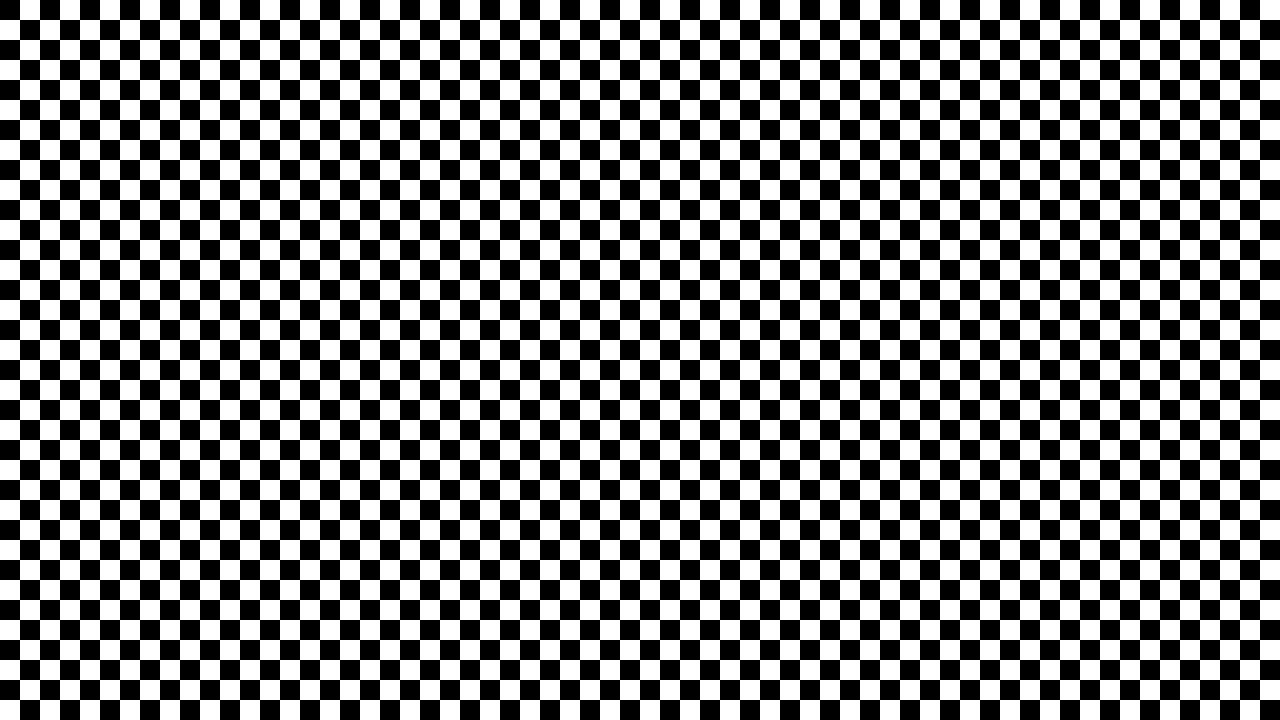
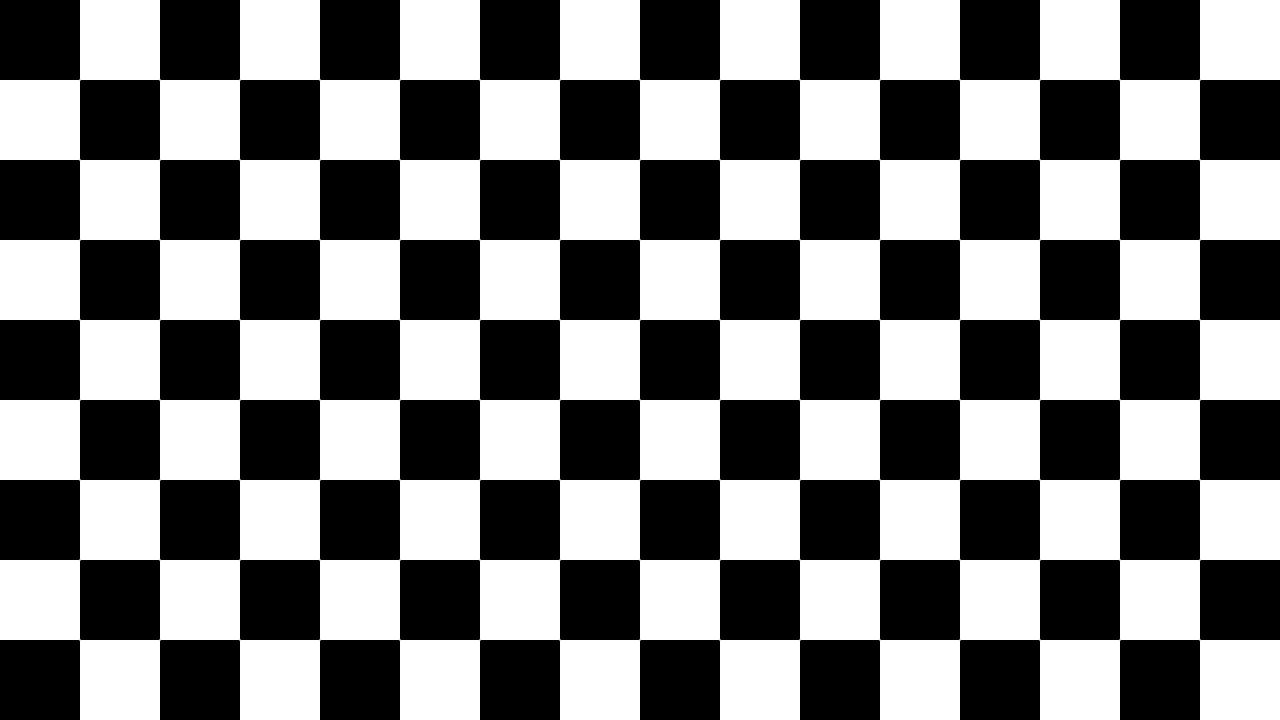
0.4.0 - Implemented basic grid framework

diff --git a/main.py b/main.py
@@ -17,7 +17,7 @@ SCREEN_TITLE = "The Kinderdrome"
 SCREEN_HEIGHT = 720
 SCREEN_WIDTH = 1280
 MARGIN = 2
-NUM_KINDER = 25
+NUM_KINDER = 2
 SCALING = 1
 FPS = 60
 MODES = {
@@ -26,7 +26,69 @@ MODES = {
     "nap_time": 2,
 }
 
+class Grid (arcade.Sprite):
+    """Grid class. A static background sprite that has a matrix of cells containing the Kinder objects currently
+    in said grid area. i.e. If two Kinder objects has center_x and center_y coordinates that lie within the same
+    grid area, their objects will be in the same matrix cell. This is useful for initialising a contest for 
+    mode 1 (block saturation).
+    
+    :param int rows: numbers of rows
+    :param int columns: number of columns
+    
+    Attributes:
+        :matrix: matrix of cells containing Kinder objects
+        :division: side length of one grid square in pixels
+    """
+    def __init__(self, rows: int = 9, columns: int = 12):
+        """Constructor"""
+        spritefile = os.path.join(os.path.split(__file__)[0], 'images/checkers.png') # Form absolute path
+        scaling = 1
+        super().__init__(spritefile, scaling)
 
+        self.left = 0
+        self.bottom = 0
+
+        self.rows = rows
+        self.columns = columns
+        self.division = self.width // self.rows # Width of a square
+
+        self.matrix = [[[] for c in range(columns)] for r in range(rows)] # Initialise empty matrix
+
+    def update(self):
+        """Checks for two kinder objects in the same cell and prints if a contest is found.
+        Subsequently clears the matrix for the next update."""
+        for r, row in enumerate(self.matrix):
+            for c, cell in enumerate(row):
+                if cell.__len__() > 1:
+                    print(f"Contest in cell: [{r},{c}]")
+        self.clear()
+
+    def print_matrix(self):
+        """Prints the grid matrix"""
+        for row in self.matrix[::-1]:
+            for c in row:
+                print("[", end='')
+                for i in c:
+                    print(i, " ", end='')
+                print("]", end='')
+            print()
+        return
+    
+    def get_grid_pos(self, sprite: arcade.Sprite):
+        """Returns grid area coordinated. Grid coordinates are of the form [row, column], 
+        with grid cooridinate [0,0] being the bottom left-most grid square."""
+        r = int(sprite.center_y // self.division)
+        c = int(sprite.center_x // self.division)
+
+        return [r,c]
+
+    def clear(self):
+        """Clears the matrix"""
+        self.matrix = [[[] for c in range(self.columns)] for r in range(self.rows)]
+
+
+
+        
 
 class Kinder (arcade.Sprite):
     """Kinder class. Runs around the room and responds to stimuli.
@@ -50,6 +112,8 @@ class Kinder (arcade.Sprite):
     1 - Block saturation
     2 - Naptime
     """
+
+    grid = Grid(9,16)
 
     def __init__(self, spritefile = "images/dummy.png", scaling = SCALING):
         """Constructor"""
@@ -91,6 +155,11 @@ class Kinder (arcade.Sprite):
 
         super().update()
 
+        self.add_to_grid()
+
+    def add_to_grid(self):
+        grid_pos = self.grid.get_grid_pos(self)
+        self.grid.matrix[grid_pos[0]][grid_pos[1]].append(self)
 
     def isOut(self, mode = None):
         """Is sprite hit box out of bounds. Returns Boolean
@@ -161,10 +230,12 @@ class Sim(arcade.Window):
         """Update function"""
         for kinder in self.kinder_list:
             kinder.update(delta_time)
+        Kinder.grid.update() # Check for contests and clear grid
 
     def on_draw(self):
         """Draw function"""
         arcade.start_render()
+        Kinder.grid.draw()
         self.kinder_list.draw()
 
     def get_kinder_sprites(self):

diff --git a/README.md b/README.md
@@ -63,3 +63,4 @@ images/ - image resources
 0.3.1 - 28/04/2022 - Set FPS and made spritefile paths absolute  
 0.3.2 - 28/04/2022 - Docstrings and Python 3.6 compatability  
 0.3.3 - 29/04/2022 - Updated README.md
+0.4.0 - 30/04/2022 - Implemented basic grid framework
